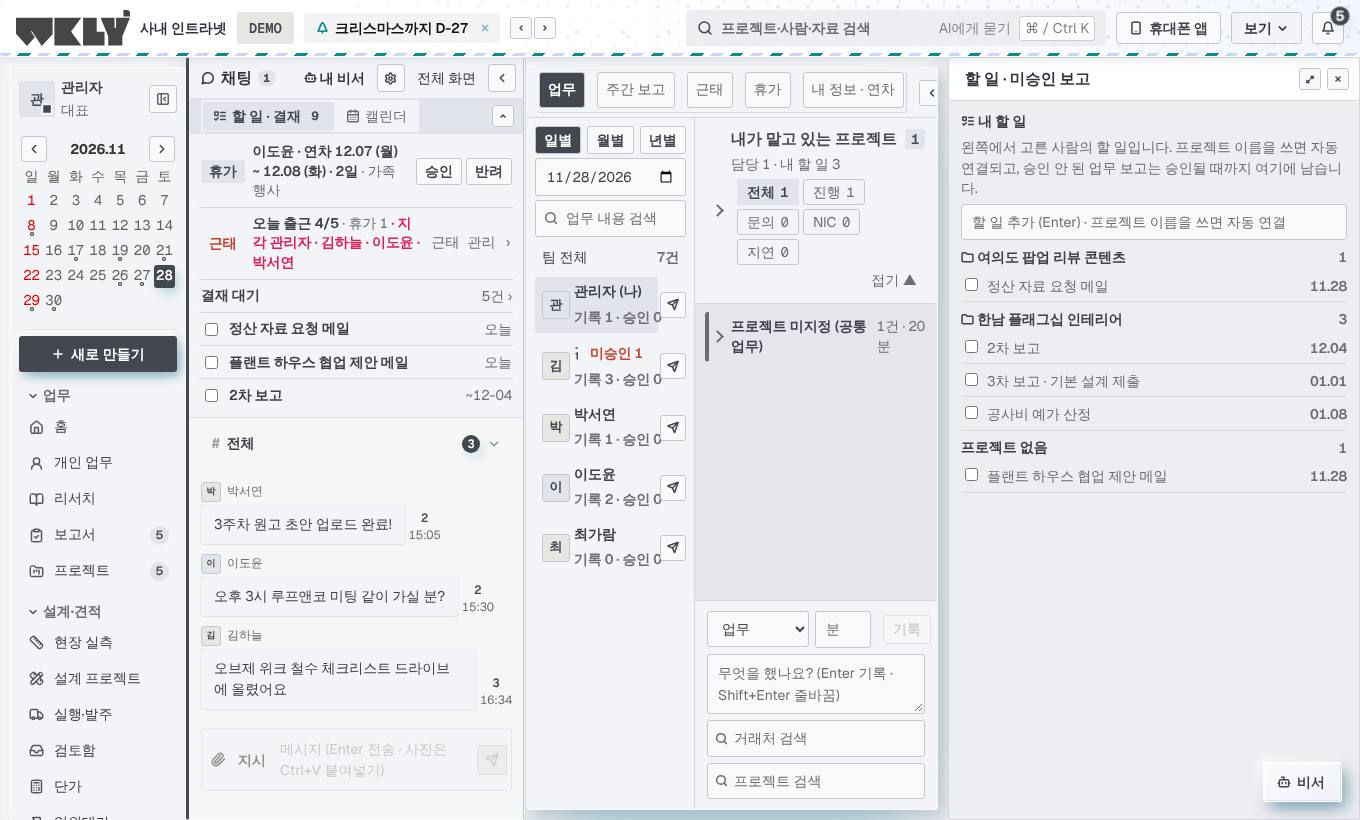
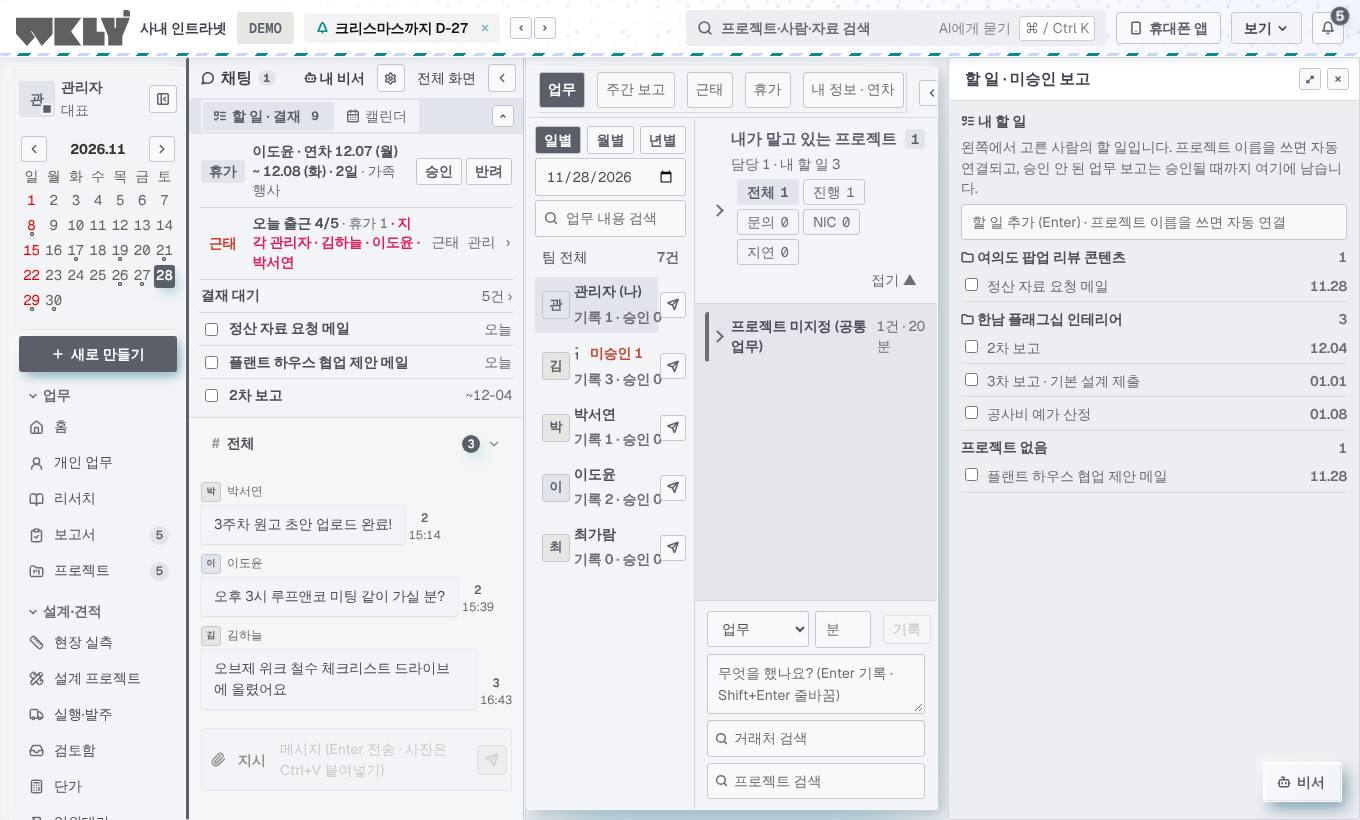
오프 블랙을 더 연하게
Claude-Session: https://claude.ai/code/session_01F3gTQwJrgJEzSdbh5GAwru

Changed region(s): [[0.0, 0.3963, 0.1544, 0.4573], [0.0, 0.0, 0.0926, 0.061], [0.3706, 0.0915, 0.4324, 0.1829]]

diff --git a/erp/src/mono.css b/erp/src/mono.css
@@ -276,7 +276,7 @@ html:not([data-theme="dark"]) .dash-day { background: var(--nm-face); border-col
 /* 스위치: <input type="checkbox" class="nm-switch"> — 켜면 먹색 홈 + 흰 손잡이 */
 input[type="checkbox"].nm-switch { appearance: none; -webkit-appearance: none; position: relative; width: 44px; height: 24px; margin: 0; border: 0; border-radius: 999px; background: #dfe2e8; box-shadow: var(--nm-in-sm, inset 0 1px 3px rgba(0, 0, 0, .2)); cursor: pointer; vertical-align: middle; transition: background-color .2s ease; flex: none; }
 input[type="checkbox"].nm-switch::after { content: ''; position: absolute; top: 2px; left: 2px; width: 20px; height: 20px; border-radius: 50%; background: #fff; box-shadow: 1px 2px 5px rgba(120, 128, 148, .55); transition: transform .2s ease; }
-input[type="checkbox"].nm-switch:checked { background: var(--v9-ink, #43474f); }
+input[type="checkbox"].nm-switch:checked { background: var(--v9-ink, #5a5f69); }
 input[type="checkbox"].nm-switch:checked::after { transform: translateX(20px); }
 input[type="checkbox"].nm-switch:focus-visible { outline: 2px solid var(--v9-accent); outline-offset: 2px; }
 /* 둥근 단추(아이콘) = 손잡이처럼 */
@@ -328,7 +328,7 @@ html:not([data-theme="dark"]) {
 }
 /* 주 버튼 = 먹색 + 메뉴 색 네온 그림자 */
 html:not([data-theme="dark"]) :is(.btn-primary, .new-btn, .today-ok, .btn.primary):not(:disabled) { background: var(--v9-ink) !important; color: #fff !important; box-shadow: var(--nm-up-sm), var(--nm-neon-sm) !important; }
-html:not([data-theme="dark"]) :is(.btn-primary, .new-btn, .today-ok, .btn.primary):not(:disabled):hover { background: #565a64 !important; box-shadow: var(--nm-up-sm), var(--nm-neon) !important; }
+html:not([data-theme="dark"]) :is(.btn-primary, .new-btn, .today-ok, .btn.primary):not(:disabled):hover { background: #6b707a !important; box-shadow: var(--nm-up-sm), var(--nm-neon) !important; }
 html:not([data-theme="dark"]) .app-page .profile :is(.new-btn, .btn-primary) { box-shadow: var(--nm-up-sm), var(--nm-neon-sm) !important; }
 /* 자주 누르는 버튼 · 고른 것 = 먹색 글자, 빛만 메뉴 색 */
 html:not([data-theme="dark"]) :is(.btn-blue, .btn-yellow, .send-btn):not(:disabled) { color: var(--v9-ink); }
@@ -358,9 +358,9 @@ html:not([data-theme="dark"]) .ast-fab { box-shadow: var(--nm-up-sm), var(--nm-n
 html:not([data-theme="dark"]) :is(.badge, .tag, .pill):not(.red):not(.late):not(.bad) { background: #e1e4ea; color: var(--v9-ink); border-color: transparent; }
 html:not([data-theme="dark"]) :is(.badge.red, .badge.late, .tag.red) { background: var(--nm-face); color: #c8442f; box-shadow: var(--nm-in-sm); border-color: transparent; }
 /* 홈 그래프: 끝낸 일 = 먹색, 마감 예정 = 회색, 지연 = 산호색 하나 — 빛만 메뉴 색 */
-html:not([data-theme="dark"]) :is(.dash-flow-col i.f-done, .dash-legend i.f-done, .dash-vbar-track i.s-active) { background: linear-gradient(160deg, #5d616b, var(--v9-ink)); box-shadow: 1px 2px 5px -1px color-mix(in srgb, var(--v9-accent) 75%, transparent); }
+html:not([data-theme="dark"]) :is(.dash-flow-col i.f-done, .dash-legend i.f-done, .dash-vbar-track i.s-active) { background: linear-gradient(160deg, #737882, var(--v9-ink)); box-shadow: 1px 2px 5px -1px color-mix(in srgb, var(--v9-accent) 75%, transparent); }
 html:not([data-theme="dark"]) :is(.dash-flow-col i.f-due, .dash-legend i.f-due) { background: #b9bec9; box-shadow: none; }
-html:not([data-theme="dark"]) .dash-flow-col.is-today i.f-due { background: linear-gradient(160deg, #5d616b, var(--v9-ink)); box-shadow: 0 0 0 2px color-mix(in srgb, var(--v9-accent) 30%, transparent), 2px 4px 12px color-mix(in srgb, var(--v9-accent) 80%, transparent); }
+html:not([data-theme="dark"]) .dash-flow-col.is-today i.f-due { background: linear-gradient(160deg, #737882, var(--v9-ink)); box-shadow: 0 0 0 2px color-mix(in srgb, var(--v9-accent) 30%, transparent), 2px 4px 12px color-mix(in srgb, var(--v9-accent) 80%, transparent); }
 html:not([data-theme="dark"]) .dash-flow-col.is-today span { color: var(--v9-ink); }
 
 /* 휴대폰 (2026-11-28 대표 '휴대폰 화면도 볼록 오목 디자인으로'): 아래 메뉴 = 떠 있는 판, 고른 칸 = 눌린 홈 + 메뉴 색 빛 */
@@ -442,7 +442,7 @@ html:not([data-theme="dark"]) button.item:is(.active, .on) { box-shadow: none; b
 [data-fold-head]::after { content: ''; position: absolute; left: 4px; top: 50%; width: 7px; height: 7px; margin-top: -5px; border-right: 2px solid var(--tx-sub, #6b6d72); border-bottom: 2px solid var(--tx-sub, #6b6d72); transform: rotate(45deg); transition: transform .2s ease; }
 [data-fold-head="1"]::after { transform: rotate(-45deg); margin-top: -4px; }
 [data-fold-head]::before { display: none !important; }
-[data-fold-head]:hover::after { border-color: var(--v9-ink, #43474f); }
+[data-fold-head]:hover::after { border-color: var(--v9-ink, #5a5f69); }
 [data-card-fold="1"] > :not(:first-child), [data-card-hidden="1"] { display: none !important; }
 [data-fold-head="1"] { margin-bottom: 0 !important; border-bottom-color: transparent !important; }
 @media print { [data-card-fold="1"] > :not(:first-child), [data-card-hidden="1"] { display: revert !important; } }
@@ -450,7 +450,7 @@ html:not([data-theme="dark"]) button.item:is(.active, .on) { box-shadow: none; b
 /* 제목 줄 없는 묶음 접기(숫자 카드 줄 · 오른쪽 일정 칸): 이름 띠를 눌러 접고 폄 */
 [data-fold-group]::before { content: '▾  ' attr(data-fold-label); display: block; grid-column: 1 / -1; flex: 0 0 100%; width: 100%; padding: 6px 4px; color: var(--tx-sub, #6b6d72); font-size: var(--fs-body); font-weight: 600; cursor: pointer; user-select: none; }
 [data-fold-group="1"]::before { content: '▸  ' attr(data-fold-label); }
-[data-fold-group]:hover::before { color: var(--v9-ink, #43474f); }
+[data-fold-group]:hover::before { color: var(--v9-ink, #5a5f69); }
 [data-fold-group="1"] > * { display: none !important; }
 [data-fold-group="1"] { min-height: 0 !important; height: auto !important; }
 
@@ -499,7 +499,7 @@ html:not([data-theme="dark"]) svg.lucide, html:not([data-theme="dark"]) .app-pag
 html:not([data-theme="dark"]) .app-page .body > .chat-dock.closed { width: 44px; margin-left: -2px; }
 html:not([data-theme="dark"]) .chat-dock.closed .chat-dock-open { background: var(--v9-ink) !important; color: #fff !important; border: 0; box-shadow: 4px 5px 12px var(--nm-lo), var(--nm-neon-sm); transition: width .2s ease, padding .2s ease, box-shadow .2s ease; }
 html:not([data-theme="dark"]) .chat-dock.closed .chat-dock-open :is(svg, span, .chat-dock-vert) { color: #fff !important; }
-html:not([data-theme="dark"]) .chat-dock.closed .chat-dock-open:hover { background: #565a64 !important; width: calc(100% + 8px); box-shadow: 4px 5px 12px var(--nm-lo), var(--nm-neon); }
+html:not([data-theme="dark"]) .chat-dock.closed .chat-dock-open:hover { background: #6b707a !important; width: calc(100% + 8px); box-shadow: 4px 5px 12px var(--nm-lo), var(--nm-neon); }
 /* 펼칠 때: 왼쪽에서 늘어남 */
 @keyframes dock-grow { from { clip-path: inset(0 100% 0 0); opacity: .4; } to { clip-path: inset(0 0 0 0); opacity: 1; } }
 html:not([data-theme="dark"]) .app-page .body > .chat-dock:not(.closed) { animation: dock-grow .28s ease-out both; transform-origin: left center; border-left: 3px solid var(--v9-ink) !important; }
@@ -507,7 +507,7 @@ html:not([data-theme="dark"]) .app-page .body > .chat-dock:not(.closed) { animat
 
 /* 검정은 더 연한 오프 블랙으로 (2026-11-28 대표 '검정색은 좀더 오프색으로 변경해') */
 html:not([data-theme="dark"]) {
-  --v9-ink: #43474f; --v8-green: #43474f; --v8-green-hover: #565a64; --v8-ink: #32353c; --v8-text: #3d4047;
-  --tx-title: #32353c; --tx-body: #3d4047; --tx-key: #43474f; --green: #43474f; --blue: #43474f; --pink: #43474f; --div-ar: #43474f;
+  --v9-ink: #5a5f69; --v8-green: #5a5f69; --v8-green-hover: #6b707a; --v8-ink: #3f434a; --v8-text: #4a4e56;
+  --tx-title: #3f434a; --tx-body: #4a4e56; --tx-key: #5a5f69; --green: #5a5f69; --blue: #5a5f69; --pink: #5a5f69; --div-ar: #5a5f69;
 }
-html:not([data-theme="dark"]) .top-logo .logo-ink, html:not([data-theme="dark"]) .profile-logo img { opacity: .72; }
+html:not([data-theme="dark"]) .top-logo .logo-ink, html:not([data-theme="dark"]) .profile-logo img { opacity: .62; }

diff --git a/erp/src/pages/Dashboard.css b/erp/src/pages/Dashboard.css
@@ -13,7 +13,7 @@
 .dash-kpi.bad b { color: var(--red, #c0392b); }
 .dash-spark { grid-area: spark; background: var(--nm-face, #fff); border-radius: 0 0 10px 0; display: flex; align-items: flex-end; gap: 3px; padding: 0 12px 12px; height: 100%; min-height: 34px; }
 .dash-spark i { width: 3px; border-radius: 2px; background: #d2d2ce; }
-.dash-spark i.top { background: var(--v9-ink, #43474f); }
+.dash-spark i.top { background: var(--v9-ink, #5a5f69); }
 .dash-kpi-foot { grid-area: foot; font-size: var(--fs-body); color: var(--tx-sub); padding: 6px 12px 4px; white-space: nowrap; overflow: hidden; text-overflow: ellipsis; }
 .dash-kpi.is-key { box-shadow: var(--glow-2, none); border-color: transparent; }
 .dash-kpi.is-key .dash-spark i.top { background: var(--v9-accent, #1f4dff); box-shadow: 2px 2px 8px color-mix(in srgb, var(--v9-accent) 70%, transparent); }
@@ -28,7 +28,7 @@
 .dash-empty { color: var(--tx-sub); font-size: var(--fs-body); margin: 6px 0; }
 .dash-legend { display: inline-flex; flex-wrap: wrap; align-items: center; gap: 4px 6px; font-size: var(--fs-body); color: var(--tx-sub); }
 .dash-legend i { width: 9px; height: 9px; border-radius: 2px; display: inline-block; margin-left: 8px; }
-.s-active { background: var(--v9-ink, #43474f); } .s-inq { background: #9a9a96; } .s-done { background: #cfcfcb; } .s-other { background: #e6e6e3; } .s-late { background: #d2564a; }
+.s-active { background: var(--v9-ink, #5a5f69); } .s-inq { background: #9a9a96; } .s-done { background: #cfcfcb; } .s-other { background: #e6e6e3; } .s-late { background: #d2564a; }
 
 /* 업무 흐름: 점 격자 */
 .dash-flow-top { display: flex; align-items: baseline; gap: 8px; margin-bottom: 12px; flex-wrap: wrap; }
@@ -36,7 +36,7 @@
 .dash-flow { display: grid; grid-auto-flow: column; grid-auto-columns: minmax(0, 1fr); gap: 3px; }
 .dash-flow-col { display: flex; flex-direction: column; gap: 3px; align-items: stretch; position: relative; min-width: 0; }
 .dash-flow-col i { display: block; aspect-ratio: 1; max-height: 16px; border-radius: 3px; background: #f1f1ef; }
-.dash-flow-col i.f-done { background: var(--v9-ink, #43474f); } .dash-flow-col i.f-due { background: #a9a9a5; } .dash-flow-col i.f-late { background: #d2564a; }
+.dash-flow-col i.f-done { background: var(--v9-ink, #5a5f69); } .dash-flow-col i.f-due { background: #a9a9a5; } .dash-flow-col i.f-late { background: #d2564a; }
 .dash-flow-col span { font-family: var(--mono); font-size: var(--fs-body); color: var(--tx-sub); white-space: nowrap; height: 1.4em; margin-top: 4px; overflow: visible; }
 .dash-flow-col.is-today i:not([class]), .dash-flow-col.is-today i[class=''] { background: var(--v9-accent-tint, #e9eeff); }
 .dash-flow-col.is-today { filter: drop-shadow(3px 4px 6px color-mix(in srgb, var(--v9-accent) 55%, transparent)); }
@@ -60,10 +60,10 @@
 .dash-table tbody tr:hover { background: #fafaf9; }
 .dash-table-name { color: var(--tx-title); font-weight: 600; text-decoration: none; }
 .dash-table-name:hover { text-decoration: underline; }
-.dash-prog { display: inline-block; vertical-align: middle; width: 90px; height: 6px; border-radius: 3px; background: #ececea; overflow: hidden; } .dash-prog i { display: block; height: 100%; background: var(--v9-ink, #43474f); border-radius: 3px; }
+.dash-prog { display: inline-block; vertical-align: middle; width: 90px; height: 6px; border-radius: 3px; background: #ececea; overflow: hidden; } .dash-prog i { display: block; height: 100%; background: var(--v9-ink, #5a5f69); border-radius: 3px; }
 .dash-pct { margin-left: 8px; color: var(--tx-sub); }
 .dash-d { font-family: var(--mono); font-size: var(--fs-body); padding: 2px 9px; border-radius: 999px; background: #f0f0ee; color: var(--tx-sub); }
-.dash-d.soon { background: var(--v9-ink, #43474f); color: #fff; } .dash-d.late { background: #fbe6e3; color: #b3372a; }
+.dash-d.soon { background: var(--v9-ink, #5a5f69); color: #fff; } .dash-d.late { background: #fbe6e3; color: #b3372a; }
 .dash-pill { display: inline-flex; align-items: center; gap: 6px; font-size: var(--fs-body); padding: 2px 10px; border-radius: 999px; border: 1px solid var(--line); background: var(--nm-face, #fff); }
 .dash-pill::before { content: ''; width: 7px; height: 7px; border-radius: 50%; background: var(--v9-live, #33d17a); box-shadow: 0 0 6px var(--v9-live, #33d17a); }
 .dash-pill.bad::before { background: #d2564a; box-shadow: 0 0 6px rgba(210, 86, 74, .8); }
@@ -74,7 +74,7 @@
 .dash-day.is-rest { background: #fafaf9; } .dash-day.is-today { border-color: transparent; box-shadow: var(--glow-2, none); }
 .dash-day-h { font-family: var(--mono); font-size: var(--fs-body); color: var(--tx-sub); } .dash-day-h b { font-weight: 600; color: var(--tx-title); }
 .dash-ev { display: block; font-size: var(--fs-body); line-height: 1.3; padding: 2px 6px; border-radius: 6px; background: #f0f0ee; color: var(--tx-body); text-decoration: none; overflow: hidden; display: -webkit-box; -webkit-line-clamp: 2; -webkit-box-orient: vertical; word-break: break-all; }
-.dash-ev.e-start { background: var(--v9-ink, #43474f); color: #fff; } .dash-ev.e-end { background: var(--nm-face, #fff); color: var(--v9-ink, #43474f); box-shadow: inset 0 0 0 1px var(--v9-ink, #43474f); }
+.dash-ev.e-start { background: var(--v9-ink, #5a5f69); color: #fff; } .dash-ev.e-end { background: var(--nm-face, #fff); color: var(--v9-ink, #5a5f69); box-shadow: inset 0 0 0 1px var(--v9-ink, #5a5f69); }
 .dash-more { font-size: var(--fs-body); color: var(--tx-sub); }
 .dash-bar-row { display: grid; grid-template-columns: 96px minmax(0, 1fr) 64px; align-items: center; gap: 10px; padding: 7px 0; font-size: var(--fs-body); }
 .dash-bar-name { color: var(--tx-body); white-space: nowrap; overflow: hidden; text-overflow: ellipsis; }
@@ -102,7 +102,7 @@ html[data-theme=dark] :is(.dash-body, .dash-kpi-l, .dash-kpi b, .dash-spark, .da
 .dash-kpi-l { background: transparent; padding: 0; color: var(--tx-sub); }
 .dash-kpi b { background: transparent; padding: 2px 0 0; font-size: calc(var(--t-num, 24px) * 1.15); }
 .dash-kpi-foot { padding: 8px 0 0; margin-top: 8px; border-top: 1px solid var(--v8-line, #d5d8df); }
-.dash-kpi-ic { grid-area: ic; display: grid; place-items: center; width: 46px; height: 46px; border-radius: 50%; background: var(--nm-face, #f3f4f7); box-shadow: var(--nm-up-sm, 0 1px 3px rgba(0, 0, 0, .15)); color: var(--v9-ink, #43474f); }
+.dash-kpi-ic { grid-area: ic; display: grid; place-items: center; width: 46px; height: 46px; border-radius: 50%; background: var(--nm-face, #f3f4f7); box-shadow: var(--nm-up-sm, 0 1px 3px rgba(0, 0, 0, .15)); color: var(--v9-ink, #5a5f69); }
 .dash-kpi-ic svg { width: 18px; height: 18px; }
 .dash-kpi.is-key .dash-kpi-ic { background: var(--v9-accent); color: #fff; box-shadow: 4px 6px 14px -4px color-mix(in srgb, var(--v9-accent) 65%, transparent); }
 .dash-kpi.bad .dash-kpi-ic { color: var(--red, #c0392b); }

diff --git a/erp/src/pages/Board.css b/erp/src/pages/Board.css
@@ -98,5 +98,5 @@ button.pboards-item { padding-right: 120px; }
 .board-pages { flex-wrap: nowrap; overflow-x: auto; scrollbar-width: thin; }
 .board-pages > * { flex: none; }
 .board-pages-gap { flex: 1 1 12px !important; min-width: 12px; }
-.board-toolsbtn.on { background: var(--v9-ink, #43474f) !important; color: #fff !important; border-color: var(--v9-ink, #43474f) !important; }
+.board-toolsbtn.on { background: var(--v9-ink, #5a5f69) !important; color: #fff !important; border-color: var(--v9-ink, #5a5f69) !important; }
 .board-bar { flex-wrap: nowrap; } .board-bar .board-title { flex: 1 1 160px; }

diff --git a/CLAUDE.md b/CLAUDE.md
@@ -112,7 +112,7 @@ Codex 공동 개발은 끝났다(2026-11-16 종료 · 2026-11-20 대표 지시 '
   - `src/styles.css` : 디자인 토큰 · WKLY v7 디자인 시스템 (사각 모서리, 글자 크기 단계 `--fs-cap 12 · sm 12.5 · body 13.5 · sub 14.5 · title 16 · num 19 · hero 28` (2026-11-09 위계 다시 잡음 · 맨 아래 :root 가 최종값 · 터치 화면은 반 단계 큼))
   - (아래 글자 위계의 굵기 800 · 700 은 2026-11-28 디자인 v9 에서 700 · 600 으로, 색 값은 mono.css 토큰으로 바뀜 — 크기 3단계 · px 직접 쓰지 않기 규칙은 그대로)
   - **글자 위계 (2026-11-17 대표 지시 '전체 공통사항 · 글자 크기는 타이틀 · 본문 · 강조 3가지만 · 색 구분과 볼드 규칙') — 새 화면도 반드시 지킬 것**: `src/type.css` 를 main.tsx 맨 끝에서 읽어 앞의 모든 단계를 덮어씀. 크기 3개 = 타이틀 `--t-title` 18px(제목 · 큰 숫자) · 강조 `--t-em` 15.5px(소제목 · 이름 줄) · 본문 `--t-body` 14px(나머지 전부 — 날짜 · 메타 · 배지 포함, 터치 화면 18.5/16/15) · 예전 토큰은 cap/sm/small/body → 본문, sub → 강조, title/num/hero → 타이틀로 이어짐. CSS 에 px 글자 크기를 새로 쓰지 말고 var(--fs-body | --fs-sub | --fs-title) 만 쓸 것(2026-11-17 에 94곳 바꿈 · 예외는 알림 숫자 동그라미 .side-n · .q2-badge · .bell .count 12px). 굵기 3개 = 800 타이틀 · 700 강조 · 400 본문(500 · 600 · 650 · 750 안 씀 · 76곳 바꿈). 색 = --tx-title #151d18 · --tx-body #222a25 · --tx-sub #535c56(보조는 크기 대신 색으로 낮춤 · --gray 도 이 색) · --tx-key #1f6b4a(누를 수 있는 것 · 고른 것) · 빨강은 지연 · 경고만. 묶음 클래스 .tx-title · .tx-em · .tx-body · .tx-sub · .tx-key. 차트 SVG 글자(charts.tsx 등)는 그대로
-  - **디자인 v9 모노톤 + 네온 빛 (2026-11-28 대표가 핀터레스트 참고 화면 넷을 골라 '이것들을 조합해서 디자인잡아 · 인트라넷 디자인 전체를 변경해 · 모노톤과 네온 효과' → '남은 화면들도 모노톤으로 · 폰트와 디자인규칙까지 모두 변경해 · 대시보드또한 디자인 배치 다시' · '색은 첨부이미지와 같이 네온 효과' · '빛이 새어나가는 효과를 잘 만들어') — 규칙 문서 `erp/docs/DESIGN_V9.md` · 새 화면도 반드시 이 규칙**: `src/mono.css`(main.tsx 맨 끝)가 토큰을 정함. ① 색 = 회색 계열 하나(바탕 #f0f0ee · 흰 카드 · 먹색 #141414 = 고른 것 · 막대) + 네온 파랑 `--v9-accent` #1f4dff 하나 · 빨강 · 노랑은 지연 · 경고만 · 초록 점은 '정상'만 ② 네온 = 가장자리에서 오른쪽 아래로 새어 나가는 파랑 빛 `--glow-1/2/3` · `--neon-soft` — 주 버튼 · 고른 것 · 오늘 · 가장 중요한 숫자 하나 · 누를 수 있는 카드 hover 에만, 글자색으로는 안 씀 ③ 글꼴 = 영문 · 숫자 Geist · 한글 Pretendard · 큰 숫자 · 연번 Geist Mono(구글 폰트 · index.html) · 크기 18 / 15.5 / 14 그대로 + 큰 숫자 `--t-num` 24 · **굵기 700 / 600 / 400**(예전 800 / 700 을 CSS 전체에서 한 단계씩 내림) ④ 모서리 카드 14 · 버튼 10 · 알약 ⑤ 카드 틀 = 회색 머리 + 흰 본문. 같은 날 **모든 CSS 의 굳은 색을 회색으로 바꿈**(초록 · 미색 · 보라 → 같은 밝기 회색 · 파랑 → `--v9-accent` / `-tint` · '화면 어둡게' 규칙 줄은 그대로 · 빨강 · 주황 · 노랑은 그대로) — **새 CSS 에 색 값을 직접 쓰지 말고 토큰을 쓸 것.** 구분 색은 `--div-ar/tw/rs`(먹색 · 회색 · 연회색) · 달력 내 업무는 네온 파랑. 홈 대시보드 새 배치(`pages/Dashboard.tsx` · `.css`): 인사 + 주 버튼 → 숫자 카드 넷(작은 막대 · 아래 설명 줄 · 첫 카드에 빛) → '업무 흐름' 점 격자(지난 2주 끝낸 일 · 앞으로 2주 마감 · 오늘 기둥에 빛 · `lib/dashboard.ts` dayFlow) + 팀원 세로 막대 → 마감이 가까운 프로젝트 표(진행 막대 · 상태 알약) → 앞으로 7일 · 구분별 → 진행 프로젝트 카드. 같은 날 2차 '부드럽게'(대표 '아직 안 바꾼 곳들도 모두 모노톤으로' · '디자인 ui,ux도 바꿔 · 색상의 사용도 수정하고 · 부드러운 느낌'): 새까만 색 대신 부드러운 먹색 `--v9-ink` #2b2d33 · 고른 것은 검은 알약 대신 연한 파랑 바탕 · 자주 누르는 버튼(.btn-blue 등)은 연한 파랑 · 테두리 대신 옅은 그림자 · 카드 18 / 버튼 12 · **styles.css 의 '모든 모서리 0 !important' 고정을 없앰(다시 넣지 말 것)** · 빛은 테 없이 넓게 · 0.2초 전환 · 창 뒤 뿌옇게. 차트(LedgerStats · MarketingFlow) · 화이트보드(미니맵 · 커서 · Excalidraw 색) · 설계(제안 보드 견본 색 · 3D 바닥 · 도면 바탕) · 기념일 장식 띠 · PC 오프라인 화면(desktop/offline.html — 다음 PC 프로그램 릴리스 때 반영)도 회색 + 네온 파랑. 그대로 둔 것: 실제 자재 색(3D · 마감재) · 거래처에 나가는 것(제안서 슬라이드 · 영업 메일 · 카드뉴스 · 광고 이미지). 같은 날 3차 '선명하게 · 메뉴마다 다른 색'(대표 '광고 화면 기간 고르기 칸과 묶음 탭도 고쳐 · 아이콘과 배경들 각각의 카드들의 선구분을 선명하게 · 색은 각 메뉴마다 다른 색' · 참고 Product UI Styleguide): **강조색 `--v9-accent` 는 메뉴마다 다름**(`lib/menuColors.ts` · Shell 이 지금 메뉴 색을 html 에 넣음 · 빛 · 연한 바탕 · 주 버튼은 color-mix 로 계산 — CSS 에 파랑을 직접 쓰지 말 것 · 새 메뉴는 색 한 줄 추가) · 왼쪽 메뉴는 대표 지시로 다시 모노톤(아이콘 · 고른 줄 · 숫자 칸 먹색 — 메뉴 색은 화면 안에서만) · 카드는 흰 바탕 + 1px 선 #dbdbd7 + 옅은 그림자(바탕 #eeeeeb) · 광고 묶음 탭 = 홈 안의 흰 카드 · 기간 고르기 = 알약. 같은 날 4차 '볼록 · 오목'(대표가 뉴모피즘 참고 그림 두 장을 보내 '이 ui도 사용해' · '이것도 넣어'): 면은 바탕과 거의 같은 밝은 회색 · 구분은 왼쪽 위 빛 + 오른쪽 아래 그림자(`--nm-up` 떠 있음 = 카드 · 버튼 / `--nm-in` 눌림 = 입력 칸 · 고른 칩 · 고른 메뉴 줄) · 구간 고르기는 회색 홈 + 흰 알약 · 켜고 끄는 설정은 체크박스에 className `nm-switch`(스위치 모양). 같은 날 5차(대표 '나머지 화면들도 모두 볼록 오목 디자인으로 · 모서리 라운드 좀 더 각지게'): 흰 바탕을 없앰 — `--white` · `--v8-card` 와 모든 CSS 의 흰 바탕 165곳을 `var(--nm-face)` 로(**새 CSS 에 `background: #fff` 를 쓰지 말 것**) · 테두리 있는 묶음 칸 30여 종을 떠 있는 모양으로 · 모서리 카드 10 / 버튼 · 입력 · 칩 7 / 큰 판 12(알약 · 원은 스위치와 숫자 동그라미만). **같은 날 최종 규칙(대표 '너무 많은 색을 사용하지마 · 전체적으로 모노톤에 그림자를 네온 번지는 효과로 · 각 메뉴마다 다른 색' · '휴대폰 화면도 볼록 오목'): 면 · 글자 · 아이콘 · 버튼 · 숫자 동그라미는 먹색과 회색만, 메뉴 색(`--v9-accent`)은 그림자가 번지는 빛(`--nm-neon` · `--nm-neon-sm`)으로만 쓴다 — 색 글자 · 색 바탕 버튼 · 색 배지를 새로 만들지 말 것. 빨강(산호색)은 지연 · 경고만. 휴대폰 아래 메뉴도 떠 있는 판 + 고른 칸 눌린 홈.** 같은 날(대표 '채팅 화면도 볼록 오목 · 아이콘 오목으로 · 채팅 상단부 높이 내려서 왼쪽에서 돌출 · 비서도 양각 유리'): 왼쪽 메뉴 아이콘 칸 = 오목 · 접힌 채팅 칸(.chat-dock.closed) = 왼쪽 판에서 튀어나온 짧은 손잡이 · 비서 단추(.ast-fab) · 비서 창 = 양각 유리 · 채팅 방 목록 눌린 홈 / 고른 방 떠 있음 / 입력 칸 눌린 홈. **절제(대표 '양각과 음각을 너무 많이 사용하지마 사용성 떨어져'): 깊이는 한 단계만 — 떠 있는 것은 큰 카드 · 본문 판 · 주 버튼 · 비서 단추 · 접힌 채팅 손잡이, 눌린 것은 왼쪽 메뉴 아이콘 칸뿐. 카드 안의 표 · 칩 · 작은 버튼 · 입력 칸 · 막대 · 말풍선은 평평하게(옅은 선 · `--nm-flat` · `--nm-field`) — 새 화면에서 카드 안에 그림자를 또 넣지 말 것.** 화이트보드 편집기 머리(대표 '두줄로 줄이고 전체보기 네비게이션도 포함해서 접었다 펼 수 있게'): 첫 줄 = 이름 · 상태 · '도구' 단추 · 전체 화면, 둘째 줄(도구 줄 · 한 줄 · 넘치면 옆으로 밀기) = 페이지 · PPT 불러오기 · 피그마 · PNG · PDF · PPT · 지도 단추 — '도구'로 접고 폄(기본 접힘 · localStorage wkly-board-tools) · 전체 보기 지도도 도구를 펼쳤을 때만 보임. **모든 카드 접기(대표 '모든 카드는 접을 수 있게 만들고 기본은 접은 상태야' · 범위 확인 '인트라넷 전체 카드' · `lib/foldCards.ts` · main.tsx startFoldCards): 본문의 제목 줄 있는 묶음은 처음에 제목만 보이고 누르면 펼침 · 펼친 것은 브라우저에 기억(wkly-card-open) · 주소에 id · inquiry 등 특정 항목이 있으면 안 접음 · 새 카드는 제목에 SectionHead 를 쓰면 저절로 대상 · 접히면 안 되는 곳은 `data-no-fold`. 시험 tests/fold-cards.test.ts.** 같은 날(대표 '숫자 카드와 오른쪽 일정 칸도 접을 수 있게 · 모서리 라운드 최소화' · '아이콘들 양각 효과 없애 전체 공통이야'): 숫자 카드 줄 · 오른쪽 일정 칸도 이름 띠로 접고 폄(foldCards.ts GROUPS · 기본 접힘) · **모서리는 어디나 3px**(스위치 · 숫자 동그라미 · 점만 예외) · **아이콘 · 아이콘 칸은 평평하게(그림자 · 볼록 · 오목 금지)**. 같은 날(대표 '분명히 구분되게 · 왼쪽에서 늘어나게 · 선이 너무 굵어 얇게' · '검정색은 좀더 오프색으로'): 먹색 `--v9-ink` = #43474f(더 짙게 되돌리지 말 것) · 아이콘 선 굵기 1.5 · 접힌 채팅 손잡이 = 먹색 바탕 + 흰 글자 · 채팅 칸은 왼쪽에서 늘어나며 열림(dock-grow). 사용 안내 사진 13장 · 영상 3개 다시 찍음 · 안내 글(guides.ts 두 곳)의 홈 · 할 일(/my) · 일정(/projects?view=calendar)을 새 구조에 맞춤(agent-chat 쪽은 다음 배포 때 반영).
+  - **디자인 v9 모노톤 + 네온 빛 (2026-11-28 대표가 핀터레스트 참고 화면 넷을 골라 '이것들을 조합해서 디자인잡아 · 인트라넷 디자인 전체를 변경해 · 모노톤과 네온 효과' → '남은 화면들도 모노톤으로 · 폰트와 디자인규칙까지 모두 변경해 · 대시보드또한 디자인 배치 다시' · '색은 첨부이미지와 같이 네온 효과' · '빛이 새어나가는 효과를 잘 만들어') — 규칙 문서 `erp/docs/DESIGN_V9.md` · 새 화면도 반드시 이 규칙**: `src/mono.css`(main.tsx 맨 끝)가 토큰을 정함. ① 색 = 회색 계열 하나(바탕 #f0f0ee · 흰 카드 · 먹색 #141414 = 고른 것 · 막대) + 네온 파랑 `--v9-accent` #1f4dff 하나 · 빨강 · 노랑은 지연 · 경고만 · 초록 점은 '정상'만 ② 네온 = 가장자리에서 오른쪽 아래로 새어 나가는 파랑 빛 `--glow-1/2/3` · `--neon-soft` — 주 버튼 · 고른 것 · 오늘 · 가장 중요한 숫자 하나 · 누를 수 있는 카드 hover 에만, 글자색으로는 안 씀 ③ 글꼴 = 영문 · 숫자 Geist · 한글 Pretendard · 큰 숫자 · 연번 Geist Mono(구글 폰트 · index.html) · 크기 18 / 15.5 / 14 그대로 + 큰 숫자 `--t-num` 24 · **굵기 700 / 600 / 400**(예전 800 / 700 을 CSS 전체에서 한 단계씩 내림) ④ 모서리 카드 14 · 버튼 10 · 알약 ⑤ 카드 틀 = 회색 머리 + 흰 본문. 같은 날 **모든 CSS 의 굳은 색을 회색으로 바꿈**(초록 · 미색 · 보라 → 같은 밝기 회색 · 파랑 → `--v9-accent` / `-tint` · '화면 어둡게' 규칙 줄은 그대로 · 빨강 · 주황 · 노랑은 그대로) — **새 CSS 에 색 값을 직접 쓰지 말고 토큰을 쓸 것.** 구분 색은 `--div-ar/tw/rs`(먹색 · 회색 · 연회색) · 달력 내 업무는 네온 파랑. 홈 대시보드 새 배치(`pages/Dashboard.tsx` · `.css`): 인사 + 주 버튼 → 숫자 카드 넷(작은 막대 · 아래 설명 줄 · 첫 카드에 빛) → '업무 흐름' 점 격자(지난 2주 끝낸 일 · 앞으로 2주 마감 · 오늘 기둥에 빛 · `lib/dashboard.ts` dayFlow) + 팀원 세로 막대 → 마감이 가까운 프로젝트 표(진행 막대 · 상태 알약) → 앞으로 7일 · 구분별 → 진행 프로젝트 카드. 같은 날 2차 '부드럽게'(대표 '아직 안 바꾼 곳들도 모두 모노톤으로' · '디자인 ui,ux도 바꿔 · 색상의 사용도 수정하고 · 부드러운 느낌'): 새까만 색 대신 부드러운 먹색 `--v9-ink` #2b2d33 · 고른 것은 검은 알약 대신 연한 파랑 바탕 · 자주 누르는 버튼(.btn-blue 등)은 연한 파랑 · 테두리 대신 옅은 그림자 · 카드 18 / 버튼 12 · **styles.css 의 '모든 모서리 0 !important' 고정을 없앰(다시 넣지 말 것)** · 빛은 테 없이 넓게 · 0.2초 전환 · 창 뒤 뿌옇게. 차트(LedgerStats · MarketingFlow) · 화이트보드(미니맵 · 커서 · Excalidraw 색) · 설계(제안 보드 견본 색 · 3D 바닥 · 도면 바탕) · 기념일 장식 띠 · PC 오프라인 화면(desktop/offline.html — 다음 PC 프로그램 릴리스 때 반영)도 회색 + 네온 파랑. 그대로 둔 것: 실제 자재 색(3D · 마감재) · 거래처에 나가는 것(제안서 슬라이드 · 영업 메일 · 카드뉴스 · 광고 이미지). 같은 날 3차 '선명하게 · 메뉴마다 다른 색'(대표 '광고 화면 기간 고르기 칸과 묶음 탭도 고쳐 · 아이콘과 배경들 각각의 카드들의 선구분을 선명하게 · 색은 각 메뉴마다 다른 색' · 참고 Product UI Styleguide): **강조색 `--v9-accent` 는 메뉴마다 다름**(`lib/menuColors.ts` · Shell 이 지금 메뉴 색을 html 에 넣음 · 빛 · 연한 바탕 · 주 버튼은 color-mix 로 계산 — CSS 에 파랑을 직접 쓰지 말 것 · 새 메뉴는 색 한 줄 추가) · 왼쪽 메뉴는 대표 지시로 다시 모노톤(아이콘 · 고른 줄 · 숫자 칸 먹색 — 메뉴 색은 화면 안에서만) · 카드는 흰 바탕 + 1px 선 #dbdbd7 + 옅은 그림자(바탕 #eeeeeb) · 광고 묶음 탭 = 홈 안의 흰 카드 · 기간 고르기 = 알약. 같은 날 4차 '볼록 · 오목'(대표가 뉴모피즘 참고 그림 두 장을 보내 '이 ui도 사용해' · '이것도 넣어'): 면은 바탕과 거의 같은 밝은 회색 · 구분은 왼쪽 위 빛 + 오른쪽 아래 그림자(`--nm-up` 떠 있음 = 카드 · 버튼 / `--nm-in` 눌림 = 입력 칸 · 고른 칩 · 고른 메뉴 줄) · 구간 고르기는 회색 홈 + 흰 알약 · 켜고 끄는 설정은 체크박스에 className `nm-switch`(스위치 모양). 같은 날 5차(대표 '나머지 화면들도 모두 볼록 오목 디자인으로 · 모서리 라운드 좀 더 각지게'): 흰 바탕을 없앰 — `--white` · `--v8-card` 와 모든 CSS 의 흰 바탕 165곳을 `var(--nm-face)` 로(**새 CSS 에 `background: #fff` 를 쓰지 말 것**) · 테두리 있는 묶음 칸 30여 종을 떠 있는 모양으로 · 모서리 카드 10 / 버튼 · 입력 · 칩 7 / 큰 판 12(알약 · 원은 스위치와 숫자 동그라미만). **같은 날 최종 규칙(대표 '너무 많은 색을 사용하지마 · 전체적으로 모노톤에 그림자를 네온 번지는 효과로 · 각 메뉴마다 다른 색' · '휴대폰 화면도 볼록 오목'): 면 · 글자 · 아이콘 · 버튼 · 숫자 동그라미는 먹색과 회색만, 메뉴 색(`--v9-accent`)은 그림자가 번지는 빛(`--nm-neon` · `--nm-neon-sm`)으로만 쓴다 — 색 글자 · 색 바탕 버튼 · 색 배지를 새로 만들지 말 것. 빨강(산호색)은 지연 · 경고만. 휴대폰 아래 메뉴도 떠 있는 판 + 고른 칸 눌린 홈.** 같은 날(대표 '채팅 화면도 볼록 오목 · 아이콘 오목으로 · 채팅 상단부 높이 내려서 왼쪽에서 돌출 · 비서도 양각 유리'): 왼쪽 메뉴 아이콘 칸 = 오목 · 접힌 채팅 칸(.chat-dock.closed) = 왼쪽 판에서 튀어나온 짧은 손잡이 · 비서 단추(.ast-fab) · 비서 창 = 양각 유리 · 채팅 방 목록 눌린 홈 / 고른 방 떠 있음 / 입력 칸 눌린 홈. **절제(대표 '양각과 음각을 너무 많이 사용하지마 사용성 떨어져'): 깊이는 한 단계만 — 떠 있는 것은 큰 카드 · 본문 판 · 주 버튼 · 비서 단추 · 접힌 채팅 손잡이, 눌린 것은 왼쪽 메뉴 아이콘 칸뿐. 카드 안의 표 · 칩 · 작은 버튼 · 입력 칸 · 막대 · 말풍선은 평평하게(옅은 선 · `--nm-flat` · `--nm-field`) — 새 화면에서 카드 안에 그림자를 또 넣지 말 것.** 화이트보드 편집기 머리(대표 '두줄로 줄이고 전체보기 네비게이션도 포함해서 접었다 펼 수 있게'): 첫 줄 = 이름 · 상태 · '도구' 단추 · 전체 화면, 둘째 줄(도구 줄 · 한 줄 · 넘치면 옆으로 밀기) = 페이지 · PPT 불러오기 · 피그마 · PNG · PDF · PPT · 지도 단추 — '도구'로 접고 폄(기본 접힘 · localStorage wkly-board-tools) · 전체 보기 지도도 도구를 펼쳤을 때만 보임. **모든 카드 접기(대표 '모든 카드는 접을 수 있게 만들고 기본은 접은 상태야' · 범위 확인 '인트라넷 전체 카드' · `lib/foldCards.ts` · main.tsx startFoldCards): 본문의 제목 줄 있는 묶음은 처음에 제목만 보이고 누르면 펼침 · 펼친 것은 브라우저에 기억(wkly-card-open) · 주소에 id · inquiry 등 특정 항목이 있으면 안 접음 · 새 카드는 제목에 SectionHead 를 쓰면 저절로 대상 · 접히면 안 되는 곳은 `data-no-fold`. 시험 tests/fold-cards.test.ts.** 같은 날(대표 '숫자 카드와 오른쪽 일정 칸도 접을 수 있게 · 모서리 라운드 최소화' · '아이콘들 양각 효과 없애 전체 공통이야'): 숫자 카드 줄 · 오른쪽 일정 칸도 이름 띠로 접고 폄(foldCards.ts GROUPS · 기본 접힘) · **모서리는 어디나 3px**(스위치 · 숫자 동그라미 · 점만 예외) · **아이콘 · 아이콘 칸은 평평하게(그림자 · 볼록 · 오목 금지)**. 같은 날(대표 '분명히 구분되게 · 왼쪽에서 늘어나게 · 선이 너무 굵어 얇게' · '검정색은 좀더 오프색으로'): 먹색 `--v9-ink` = #5a5f69(더 짙게 되돌리지 말 것) · 아이콘 선 굵기 1.5 · 접힌 채팅 손잡이 = 먹색 바탕 + 흰 글자 · 채팅 칸은 왼쪽에서 늘어나며 열림(dock-grow). 사용 안내 사진 13장 · 영상 3개 다시 찍음 · 안내 글(guides.ts 두 곳)의 홈 · 할 일(/my) · 일정(/projects?view=calendar)을 새 구조에 맞춤(agent-chat 쪽은 다음 배포 때 반영).
   - 디자인 v8 (2026-11-16 대표 지시 '인트라넷 디자인 개선해' · Houzz Pro 스타일 계획 문서 1단계): `src/refresh.css` 를 main.tsx 맨 끝에서 읽음 — 따뜻한 미색 바탕(#f6f4ef) · 흰 작업 칸 · 둥근 모서리(카드 12 · 버튼·입력 8 · 태그 알약, v7 의 '모두 사각'을 덮어씀) · 흰 위쪽 바(초록 로고) · 테두리 없는 메뉴(고른 줄 흰 칸) · 밑줄 탭 · 가로선만 표 · 연한 배지 · 글꼴 Pretendard(jsdelivr · 무료) + 숫자도 같은 글꼴 고정폭. 색은 `html:not([data-theme=dark])` 에만 → '화면 어둡게'는 그대로. 새 화면은 --v8-* 토큰을 쓸 것. import 한 줄을 빼면 v7 로 돌아감
   - 실행 내역 엑셀 읽기 (2026-11-17 대표 우선순위 3 '실제 프로젝트로 검증'): `lib/designCost.ts` parseCostSheet 가 회사 '실행집행 내역서' 양식(구분 · 견적 항목 · 실행 내역 · 단위 · 수량 · 실행 단가 · 실행 금액 · 발주처 · 근거·확인)도 읽음 — 품목 = 실행 내역, 구분 · 견적 항목은 아래 줄로 이어 씀(견적 항목은 비고 앞 [ ]), 단위 저장, 발주처 '미정 · 내부 · —'는 업체 없음. 예전엔 '실행 단가' 머리 줄을 못 알아봐 '실행 내역을 찾지 못했습니다'가 났음. 시험 tests/design-cost.test.ts. 11/17 로제코(AR2610-08) 설계 프로젝트에 실물 60줄 · 49,703,600원 넣어 확인(openpyxl 계산과 일치 · 견적 공급가 6,000만 대비 실행 82.8%). 조달청 물가 기준은 이 견적처럼 인건비(인) · 식 단위가 많으면 0/60 매칭 → 시중노임단가 기준이 다음 과제
   - 사진 카드 (2026-11-17 대표 우선순위 1 'Houzz Pro 식 화면 개편'): 프로젝트 카드(홈 · 프로젝트 '카드' 보기 · `components/ProjectCards.tsx`) 맨 위 16:10 대표 사진 + 사진 위 구분 알약 · 남은 기간, 사진 없으면 구분 색 바탕에 연번. 프로젝트 상세 머리 아래 표지 사진(`ProjectCoverBanner` · 사진 있을 때만). 홈 숫자 카드 4개 왼쪽 아이콘 타일. 사진은 서버 함수 `project-covers`(verify_jwt false · x-sync-key = GDRIVE_SYNC_KEY · 10분마다 cron project_covers → private.project_covers_tick)가 drive_index 사진 중 하나를 골라(`project-covers/cover.ts` pickCover: 준공 · 촬영 > 투시도 · 렌더 · 성과물 그래픽 > 현장 사진(상권조사 제외) > 컨셉 · 시안 > 기타 · 계약 · 견적 · 통장 · 명함 · 캡처 · 로고 · 슬랙 · 카톡 제외 · 60KB 이상) 드라이브 미리보기(긴 변 800px)만 비공개 보관함 project-covers 에 넣음 · 표 public.project_covers(활성 팀원 읽기 · 쓰기는 서버만 · source auto|manual · 자동은 3일마다 다시 고름) · api.projectCovers()(서명 주소 1시간 · signedUrlCache) · 체험 모드는 사진 없음. 20261117201000_project_covers. 시험 `npm run test:covers`

diff --git a/erp/docs/DESIGN_V9.md b/erp/docs/DESIGN_V9.md
@@ -105,4 +105,4 @@
 - 창(모달) · 화이트보드 편집기 · 채팅 칸 · 오른쪽 일정 칸 · 왼쪽 메뉴는 대상이 아니다.
 
 - (2026-11-28 대표 지시 · 위 규칙보다 우선) **모서리는 어디나 3px**(스위치 · 숫자 동그라미 · 점만 둥글게). **아이콘 · 아이콘 칸에는 그림자 · 볼록 · 오목을 주지 않는다.** 제목 줄 없는 묶음(숫자 카드 줄 · 오른쪽 일정 칸)도 이름 띠('숫자 요약' · '일정')를 눌러 접고 편다 — foldCards.ts GROUPS.
-- (2026-11-28 대표 지시) 먹색은 연한 오프 블랙 `--v9-ink` #43474f(제목 글자 #32353c) · 아이콘 선 굵기 1.5 · 접힌 채팅 손잡이는 먹색 바탕 + 흰 글자로 또렷하게, 펼치면 왼쪽에서 늘어나며 열리고 왼쪽에 먹색 선.
+- (2026-11-28 대표 지시) 먹색은 연한 오프 블랙 `--v9-ink` #5a5f69(제목 글자 #3f434a) · 아이콘 선 굵기 1.5 · 접힌 채팅 손잡이는 먹색 바탕 + 흰 글자로 또렷하게, 펼치면 왼쪽에서 늘어나며 열리고 왼쪽에 먹색 선.
